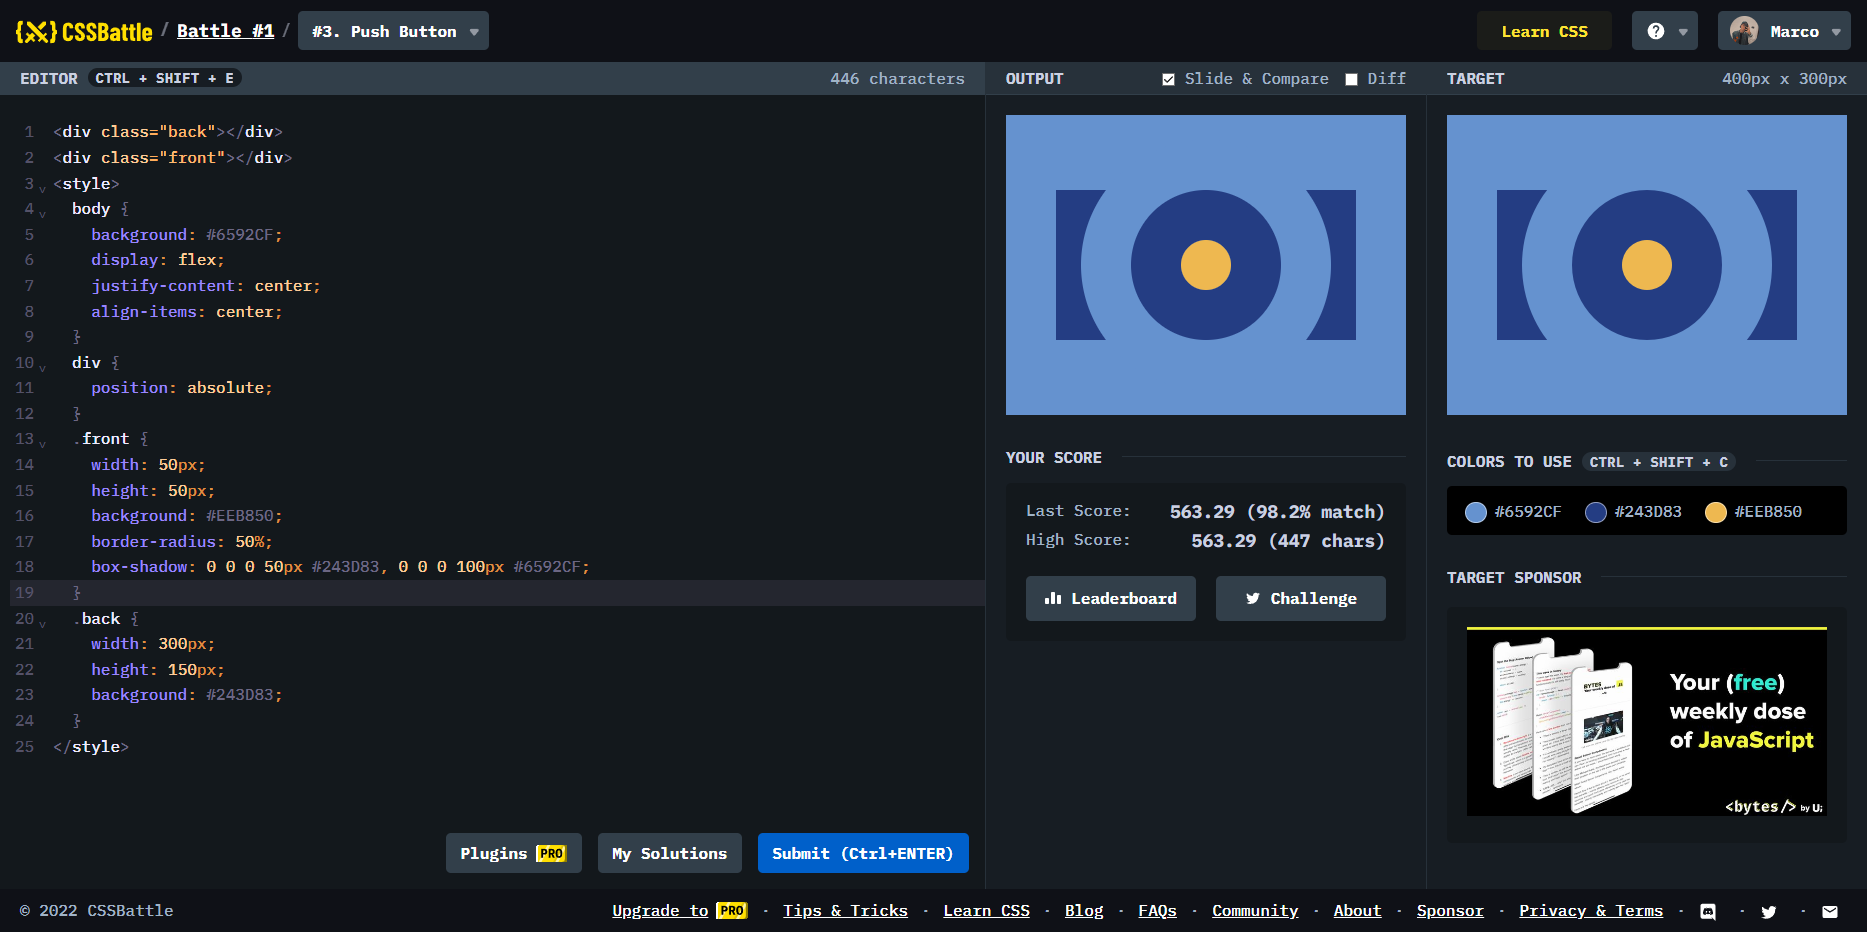
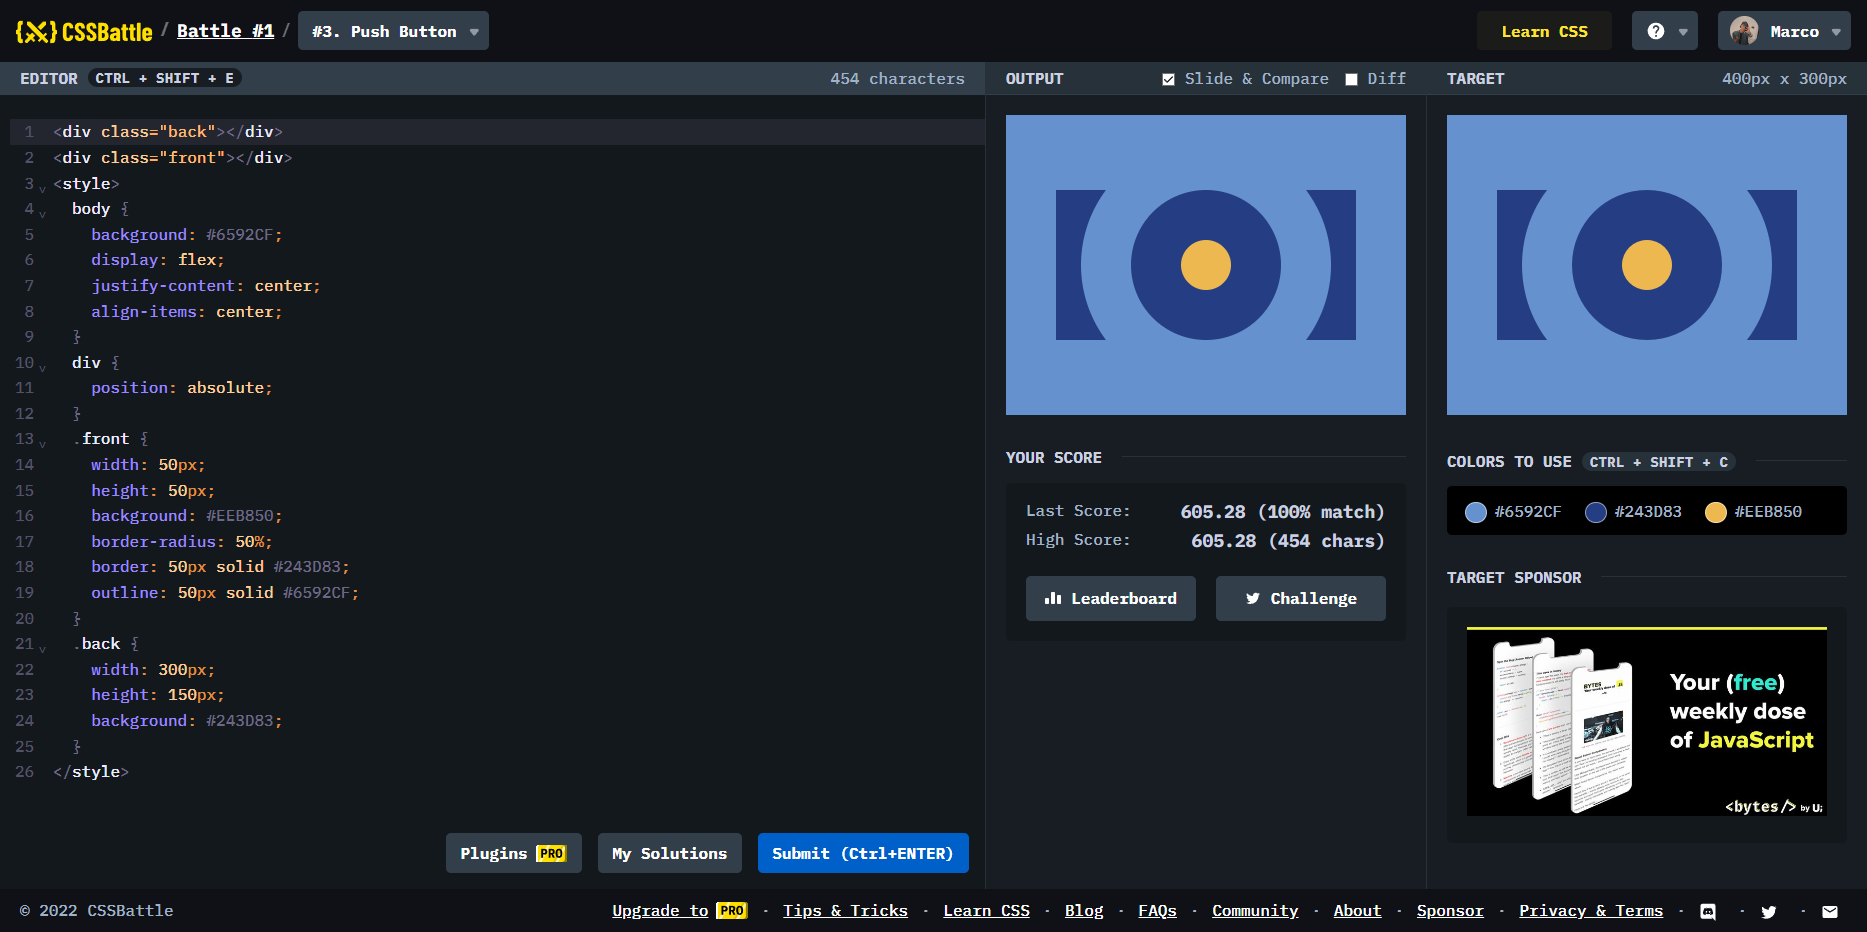
fix exercise

Changed region(s): [[0.0311, 0.5912, 0.3107, 0.8401], [0.6213, 0.529, 0.7145, 0.5912]]

diff --git a/solutions/01 - Pilot Battle/03_push-button.md b/solutions/01 - Pilot Battle/03_push-button.md
@@ -24,7 +24,8 @@
     height: 50px;
     background: #EEB850;
     border-radius: 50%;
-    box-shadow: 0 0 0 50px #243D83, 0 0 0 100px #6592CF;
+    border: 50px solid #243D83;
+    outline: 50px solid #6592CF;
   }
   .back {
     width: 300px;
